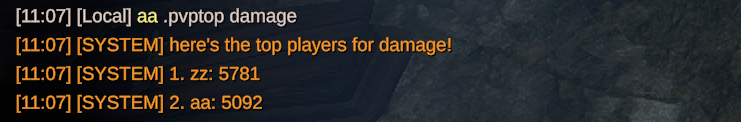
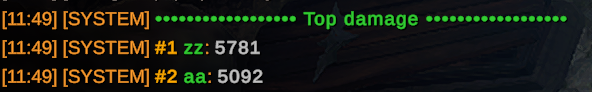
make pvptop more pretty

diff --git a/Commands.cs b/Commands.cs
@@ -20,7 +20,7 @@ public class Commands
         ctx.Reply("pvpdetails loaded happily!");
     }
 
-    [Command("pvptop", shortHand: "ptop", description: "prints the players stats for x category")]
+    [Command("pvptop", shortHand: "ptop", description: "prints the top-5 players for the given category")]
     public void PvPStats(ChatCommandContext ctx, string category)
     {
         if (!Enum.TryParse(category, ignoreCase: true, out PvPCategories choice))
@@ -31,19 +31,30 @@ public class Commands
 
         if (PlayerStatStore.PlayerStats.Count == 0)
         {
-            ctx.Reply("oh no! no one has played yet!");
+            ctx.Reply("Oh no! No one has played yet!");
             return;
         }
 
-        ctx.Reply($"here's the top players for {category}!");
+        // ── colour helpers ────────────────────────────────────────────
+        const string Gold = "#ffaa00";
+        static string GreenB(string txt) => txt.Bold().Color(ChatAnnouncements.assistColor);
+        static string Stat(int num) => num.ToString().Bold().Color(ChatAnnouncements.lvlColor);
+        static string Rank(int r) => $"#{r}".Color(Gold).Bold();
 
-        var sorted = PlayerStatStore.PlayerStats.Values
-            .OrderByDescending(x => x.GetStat(category))
-            .ToList();
-        for (int i = 0; i < Math.Min(5, sorted.Count); i++)
+        // get top 5 in dec order
+        var topPlayers = PlayerStatStore.PlayerStats.Values
+                    .OrderByDescending(p => p.GetStat(category))
+                    .Take(5)
+                    .ToArray();
+
+
+        ctx.Reply(GreenB($"•••••••••••••••••• Top {category} ••••••••••••••••••"));
+
+        for (int i = 0; i < topPlayers.Length; i++)
         {
-            var playerStats = sorted[i];
-            ctx.Reply($"{i + 1}. {playerStats.Name}: {playerStats.GetStat(category)}");
+            var p = topPlayers[i];
+            var line = $"{Rank(i + 1)} {GreenB(p.Name)}: {Stat(p.GetStat(category))}";
+            ctx.Reply(line);
         }
     }
 

diff --git a/PlayerStats.cs b/PlayerStats.cs
@@ -36,7 +36,7 @@ public record struct PlayerStats(
             "killstreak" => CurrentKillStreak,
             "highestkillstreak" => HighestKillStreak,
             "damage" => Damage,
-            _ => throw new ArgumentException($"Invalid category: {category}")
+            _ => -1
         };
     }
 }
